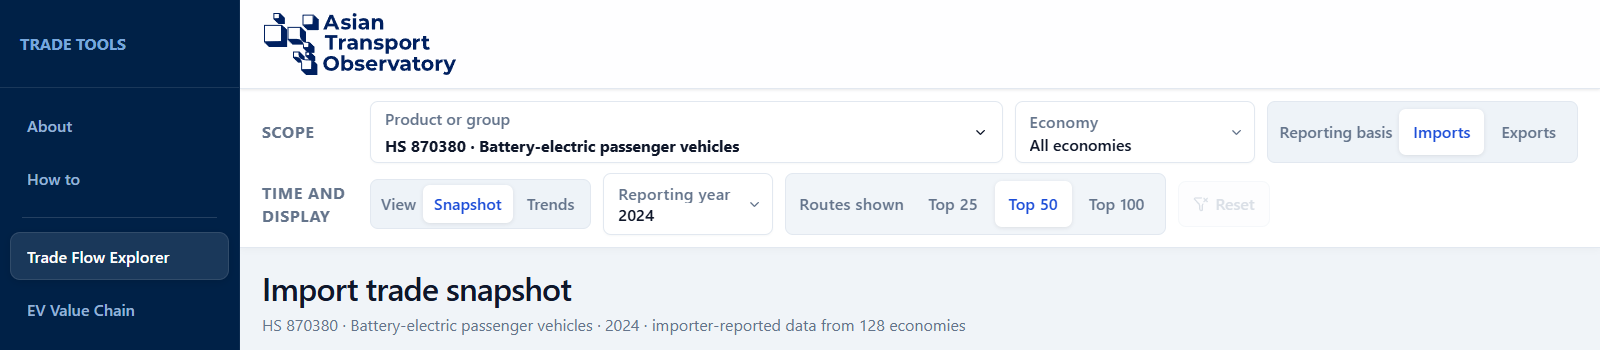
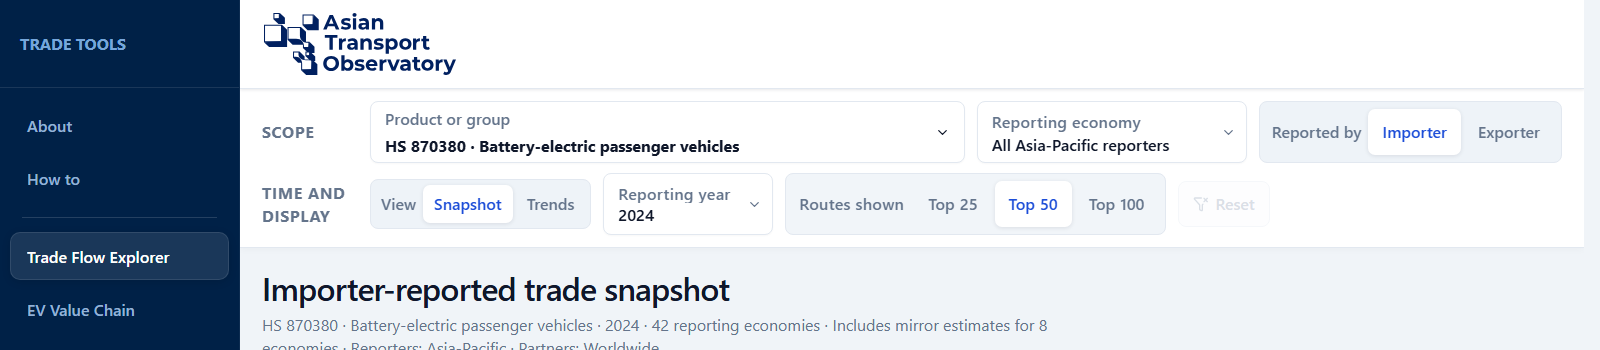
Clarify reporting scope and update user guidance

diff --git a/src/TradeExplorerApp.jsx b/src/TradeExplorerApp.jsx
@@ -1544,7 +1544,7 @@ function RouteDetail({ route, productLabel, reportingMode, year, onClose }) {
       <div className="detail-scroll">
         <div className="route-value-block">
           <span>
-            {reportingMode === "exports" ? "Export" : "Import"} value reported by {reportingMode === "exports" ? route.supplierName : route.importerName}
+            Reported by {reportingMode === "exports" ? route.supplierName : route.importerName} as an {reportingMode === "exports" ? "export" : "import"}
           </span>
           <strong>{formatDetailedUsd(route.value)}</strong>
           <small>{route.basisLabel}</small>
@@ -2659,7 +2659,10 @@ export default function TradeExplorerApp() {
         .map((economy, economyIndex) => ({ ...economy, economyIndex }))
         .filter(
           (economy) =>
-            economy.name !== "World" && economy.iso3 && !isSpecialEconomy(economy),
+            economy.reporter &&
+            economy.name !== "World" &&
+            economy.iso3 &&
+            !isSpecialEconomy(economy),
         )
         .sort((left, right) => left.name.localeCompare(right.name)),
     [dataset],
@@ -2740,7 +2743,7 @@ export default function TradeExplorerApp() {
               <div class="map-popup__dot" style="background:#2563eb"></div>
               <div>
                 <strong>${escapeHtml(props.supplier)} → ${escapeHtml(props.importer)}</strong>
-                <span>Reported by the ${reportingModeRef.current === "exports" ? "exporting" : "importing"} economy</span>
+                <span>Reported by ${escapeHtml(reportingModeRef.current === "exports" ? props.supplier : props.importer)} as an ${reportingModeRef.current === "exports" ? "export" : "import"}</span>
                 <p>${escapeHtml(formatUsdThousand(Number(props.value), 2))}</p>
               </div>
             </div>`,
@@ -2988,7 +2991,7 @@ export default function TradeExplorerApp() {
             <span>
               <strong>Filters</strong>
               <small>
-                {selectedProductLabel} · {reportingMode === "exports" ? "Exports" : "Imports"} · {analysisView === "snapshot" ? year : `${trendStartYear}–${trendEndYear}`} · {countryEconomy?.name || "All Asia-Pacific economies"}
+                {selectedProductLabel} · {reportingMode === "exports" ? "Exporter-reported" : "Importer-reported"} · {analysisView === "snapshot" ? year : `${trendStartYear}–${trendEndYear}`} · {countryEconomy?.name || "All Asia-Pacific reporters"}
               </small>
             </span>
             <ChevronDown size={16} />
@@ -3005,7 +3008,7 @@ export default function TradeExplorerApp() {
           />
 
           <label className="select-wrap select-wrap--country">
-            <span>Economy</span>
+            <span>Reporting economy</span>
             <select
               value={countryEconomyIndex ?? ""}
               onChange={(event) => {
@@ -3015,9 +3018,9 @@ export default function TradeExplorerApp() {
                 setSelectedEconomyIndex(null);
                 setConnectionMode("all");
               }}
-              aria-label="Economy"
+              aria-label="Reporting economy"
             >
-              <option value="">All Asia-Pacific economies</option>
+              <option value="">All Asia-Pacific reporters</option>
               {countryOptions.map((economy) => (
                 <option key={economy.economyIndex} value={economy.economyIndex}>
                   {economy.name}
@@ -3027,8 +3030,8 @@ export default function TradeExplorerApp() {
             <ChevronDown size={15} />
           </label>
 
-          <div className="reporting-mode-filter" aria-label="Trade flow">
-              <span>Trade flow</span>
+          <div className="reporting-mode-filter" aria-label="Reported by">
+              <span>Reported by</span>
               <div>
                 <Segment
                   active={reportingMode === "imports"}
@@ -3038,7 +3041,7 @@ export default function TradeExplorerApp() {
                     setSelectedEconomyIndex(null);
                   }}
                 >
-                  Imports
+                  Importer
                 </Segment>
                 <Segment
                   active={reportingMode === "exports"}
@@ -3048,7 +3051,7 @@ export default function TradeExplorerApp() {
                     setSelectedEconomyIndex(null);
                   }}
                 >
-                  Exports
+                  Exporter
                 </Segment>
               </div>
           </div>
@@ -3207,19 +3210,19 @@ export default function TradeExplorerApp() {
             <div>
               <h1>
                 {countryEconomy ? `${countryEconomy.name} · ` : ""}
-                {`${reportingMode === "exports" ? "Export" : "Import"} ${
+                {`${reportingMode === "exports" ? "Exporter" : "Importer"}-reported ${
                   analysisView === "snapshot" ? "trade snapshot" : "trends"
                 }`}
               </h1>
               {analysisView === "snapshot" ? (
                 <p>
                   {selectedProductLabel} · {year} · {countryEconomy
-                    ? `${countryEconomy.name} as the reporting economy`
-                    : `${analysis.reporters} Asia-Pacific reporting economies and worldwide partners`} · {mirrorCoverageText}
+                    ? `${countryEconomy.name} reporting`
+                    : `${analysis.reporters} reporting economies`} · {mirrorCoverageText} · Reporters: Asia-Pacific · Partners: Worldwide
                 </p>
               ) : (
                 <p>
-                  {selectedProductLabel} · {trendStartYear}–{trendEndYear}{countryEconomy ? ` · ${countryEconomy.name}` : " · economies with complete annual data"}
+                  {selectedProductLabel} · {trendStartYear}–{trendEndYear}{countryEconomy ? ` · ${countryEconomy.name} reporting` : " · economies with complete annual data"} · Reporters: Asia-Pacific · Partners: Worldwide
                 </p>
               )}
             </div>
@@ -3323,17 +3326,19 @@ export default function TradeExplorerApp() {
               </button>
               <span className="map-node-instruction">
                 {selectedEconomy
-                  ? "Reset the map to select another economy."
+                  ? selectedEconomy.reporter === false
+                    ? `${selectedEconomy.name} is included as a partner, not as a reporting economy. These routes use reports from Asia-Pacific economies. Reset the map to select another economy.`
+                    : "Reset the map to select another economy."
                   : "Click an economy to focus on its trade routes."}
               </span>
             </div>
             <div className="result-pill">
               {selectedEconomy
                 ? connectionMode === "imports"
-                  ? `${mapPayload.lines.features.length} imports to ${selectedEconomy.name}`
+                  ? `${mapPayload.lines.features.length} incoming routes to ${selectedEconomy.name} · Asia-Pacific reporters`
                   : connectionMode === "exports"
-                    ? `${mapPayload.lines.features.length} exports from ${selectedEconomy.name}`
-                    : `${mapPayload.lines.features.length} routes for ${selectedEconomy.name}`
+                    ? `${mapPayload.lines.features.length} outgoing routes from ${selectedEconomy.name} · Asia-Pacific reporters`
+                    : `${mapPayload.lines.features.length} routes involving ${selectedEconomy.name} · Asia-Pacific reporters`
                 : `${mapPayload.lines.features.length} routes shown`}
             </div>
             {selectedEconomy ? (
@@ -3341,12 +3346,12 @@ export default function TradeExplorerApp() {
                 className="connection-mode-filter"
                 aria-label={`Connections for ${selectedEconomy.name}`}
               >
-                <span>Connection type</span>
+                <span>Direction at {selectedEconomy.name}</span>
                 <div>
                   {[
                     ["all", "All", selectedConnections.all.length],
-                    ["imports", "Imports", selectedConnections.imports.length],
-                    ["exports", "Exports", selectedConnections.exports.length],
+                    ["imports", "Into", selectedConnections.imports.length],
+                    ["exports", "Out of", selectedConnections.exports.length],
                   ].map(([mode, label, count]) => (
                     <Segment
                       key={mode}
@@ -3366,11 +3371,11 @@ export default function TradeExplorerApp() {
                 <>
                   <span>
                     <i className="legend-line legend-line--import" />
-                    Imports to {selectedEconomy.name}
+                    Incoming routes to {selectedEconomy.name}
                   </span>
                   <span>
                     <i className="legend-line legend-line--export" />
-                    Exports from {selectedEconomy.name}
+                    Outgoing routes from {selectedEconomy.name}
                   </span>
                 </>
               ) : null}
@@ -3379,7 +3384,7 @@ export default function TradeExplorerApp() {
               <span><i className="legend-both" />Both roles</span>
               <small>
                 {selectedEconomy
-                  ? "Node size shows total trade. Blue routes are imports to the selected economy; orange routes are exports from it. Reset the map to select another economy."
+                  ? "Node size shows total trade. Blue routes enter the selected economy; orange routes leave it. Reset the map to select another economy."
                   : `Click an economy to show its routes. Node size shows total trade; line width shows the selected ${reportingMode === "exports" ? "export" : "import"} value.`}
               </small>
             </div>

diff --git a/src/HowToPage.jsx b/src/HowToPage.jsx
@@ -55,39 +55,39 @@ function DefinitionGroups({ groups }) {
 }
 
 const NAVIGATION_CALLOUTS = [
-  { marker: "A", label: "Choose an analysis page from the navigation panel.", left: "1%", top: "3%", width: "13%", height: "94%" },
-  { marker: "B", label: "Select a product, product group or combination of compatible HS codes.", left: "22.8%", top: "28%", width: "39.7%", height: "20%" },
-  { marker: "C", label: "Set the Asia-Pacific reporting economy and choose imports or exports.", left: "63.6%", top: "28%", width: "35.1%", height: "20%" },
+  { marker: "A", label: "Choose an analysis page from the navigation panel.", left: "0.6%", top: "3%", width: "13.8%", height: "94%" },
+  { marker: "B", label: "Select a product, product group or combination of compatible HS codes.", left: "23.1%", top: "28.5%", width: "36.7%", height: "18%" },
+  { marker: "C", label: "Choose an Asia-Pacific reporting economy and whether the importer or exporter reported the trade.", left: "60%", top: "28.5%", width: "37.7%", height: "18%" },
   { marker: "D", label: "Choose a snapshot year or a trend period. Route limits apply to the map and table.", left: "22.8%", top: "50%", width: "57.1%", height: "17%" },
 ];
 
 const SNAPSHOT_CALLOUTS = [
-  { marker: "A", label: "Read total reported trade and partner concentration for the current selection.", left: "1.2%", top: "9%", width: "97.4%", height: "16.5%" },
-  { marker: "B", label: "Switch between the route map and table. Both follow the Routes shown setting.", left: "1.2%", top: "27%", width: "97.4%", height: "6%" },
-  { marker: "C", label: "Select an economy to focus on its connections. Reset the map before choosing another.", left: "1.2%", top: "36%", width: "97.4%", height: "62.5%" },
-  { marker: "D", label: "Use the map key to interpret node roles, routes and values.", left: "2.2%", top: "70%", width: "20%", height: "28%" },
+  { marker: "A", label: "Read total reported trade and partner concentration for the current selection.", left: "1.5%", top: "12.2%", width: "97.2%", height: "15.6%" },
+  { marker: "B", label: "Switch between the route map and table. Both follow the Routes shown setting.", left: "1.5%", top: "29.7%", width: "97.2%", height: "5%" },
+  { marker: "C", label: "Select an economy to focus on its connections. Reset the map before choosing another.", left: "1.5%", top: "38%", width: "97.2%", height: "61.5%" },
+  { marker: "D", label: "Use the map key to interpret node roles, routes and values.", left: "2.4%", top: "71%", width: "19.8%", height: "27.4%" },
 ];
 
 const TRENDS_CALLOUTS = [
-  { marker: "A", label: "Check reporting coverage across the selected period.", left: "1%", top: "9%", width: "98%", height: "10%" },
-  { marker: "B", label: "Compare the endpoints for trade value, growth and concentration.", left: "1%", top: "20%", width: "98%", height: "11%" },
-  { marker: "C", label: "Follow annual trade value and select a point for the exact figure.", left: "1%", top: "32%", width: "98%", height: "29%" },
-  { marker: "D", label: "Compare partner shares and changes in the HHI concentration measure.", left: "1%", top: "62%", width: "98%", height: "36%" },
+  { marker: "A", label: "Check reporting coverage across the selected period.", left: "1.4%", top: "9%", width: "97.2%", height: "8.6%" },
+  { marker: "B", label: "Compare the endpoints for trade value, growth and concentration.", left: "1.4%", top: "18.8%", width: "97.2%", height: "9.4%" },
+  { marker: "C", label: "Follow annual trade value and select a point for the exact figure.", left: "1.4%", top: "29.5%", width: "97.2%", height: "29.9%" },
+  { marker: "D", label: "Compare partner shares and changes in the HHI concentration measure.", left: "1.4%", top: "60.7%", width: "97.2%", height: "34.2%" },
 ];
 
 const VALUE_CHAIN_CALLOUTS = [
-  { marker: "A", label: "Choose the year, material focus and reporting basis.", left: "43%", top: "3.5%", width: "55.5%", height: "8%" },
-  { marker: "B", label: "Read the chart from material scope through the five trade stages to end users.", left: "1%", top: "22%", width: "98%", height: "10%" },
-  { marker: "C", label: "Follow the named bilateral relationships; remaining trade is grouped under Other economies.", left: "1%", top: "30.5%", width: "98%", height: "61%" },
-  { marker: "D", label: "Compare the full trade total reported for each stage.", left: "1%", top: "93.5%", width: "98%", height: "5.5%" },
+  { marker: "A", label: "Choose the year, material focus and reporting basis.", left: "56.5%", top: "4.6%", width: "41.4%", height: "6.7%" },
+  { marker: "B", label: "Read the chart from material scope through the five trade stages to end users.", left: "2%", top: "20.4%", width: "96%", height: "8.4%" },
+  { marker: "C", label: "Follow the named bilateral relationships; remaining trade is grouped under Other economies.", left: "2%", top: "28.4%", width: "96%", height: "63.5%" },
+  { marker: "D", label: "Compare the full trade total reported for each stage.", left: "2%", top: "92%", width: "96%", height: "5.1%" },
 ];
 
 const FILTER_DEFINITIONS = [{
   title: "Trade filters",
   items: [
     { term: "Product or group", description: "Selects one HS product, a predefined group or several compatible product codes. Overlapping broad and detailed codes cannot be combined." },
-    { term: "Economy", description: "Shows the selected Asia-Pacific economy’s trade. All Asia-Pacific economies combines the reporting economies with available data." },
-    { term: "Trade flow", description: "Imports shows purchases reported for Asia-Pacific economies; Exports shows their reported sales to destinations worldwide." },
+    { term: "Reporting economy", description: "Shows trade reported by the selected Asia-Pacific economy. All Asia-Pacific reporters combines data from economies with available reports." },
+    { term: "Reported by", description: "Importer uses declarations submitted by importing economies; Exporter uses declarations submitted by exporting economies." },
     { term: "Snapshot", description: "Shows one reporting year." },
     { term: "Trends", description: "Compares annual results across a selected period." },
     { term: "Routes shown", description: "Limits the map and table to the 25, 50 or 100 largest bilateral routes. It does not change headline totals or the full-value Sankey." },
@@ -103,6 +103,7 @@ const SNAPSHOT_DEFINITIONS = [{
     { term: "Supplier economy", description: "The origin economy in a bilateral relationship." },
     { term: "Importing economy", description: "The destination economy in a bilateral relationship." },
     { term: "Both roles", description: "An economy appearing as both a supplier and an importer in the displayed network." },
+    { term: "Direction at a selected economy", description: "Into and Out of describe the route direction at the economy selected on the map. This is separate from who reported the trade." },
     { term: "Other economies", description: "Relationships included in the Sankey total but not individually named." },
   ],
 }];

diff --git a/src/AboutPage.jsx b/src/AboutPage.jsx
@@ -59,9 +59,10 @@ export default function AboutPage() {
               Trade Flow Explorer values are drawn from ITC Trade Map and presented in
               current US dollars. A direct observation comes from the selected reporting
               economy. A mirror estimate is reconstructed from partner reports when a
-              direct observation is unavailable. Imports and exports remain separate
-              views and may differ because of valuation, timing, partner attribution,
-              transshipment and reporting practices. Missing observations are not zero.
+              direct observation is unavailable. Importer-reported and exporter-reported
+              views remain separate and may differ because of valuation, timing,
+              partner attribution, transshipment and reporting practices. Missing
+              observations are not zero.
             </p>
             <p>
               Headline totals, rankings, concentration measures and trends use the full
